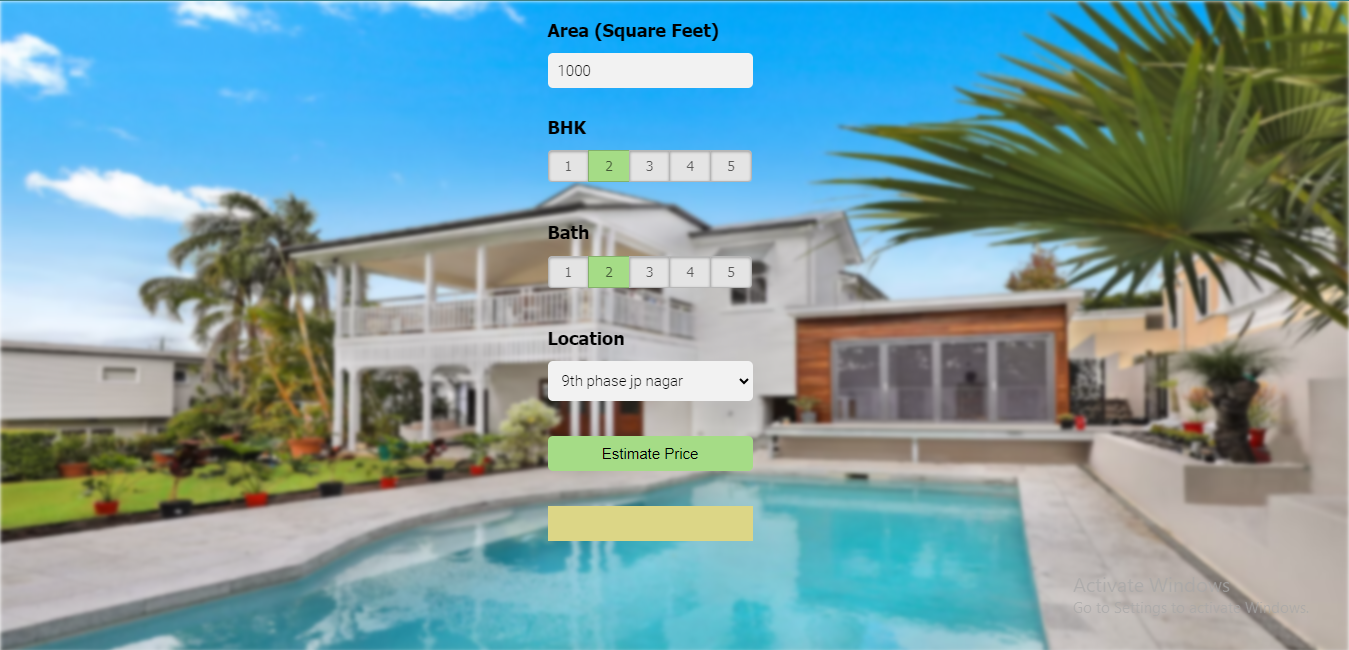
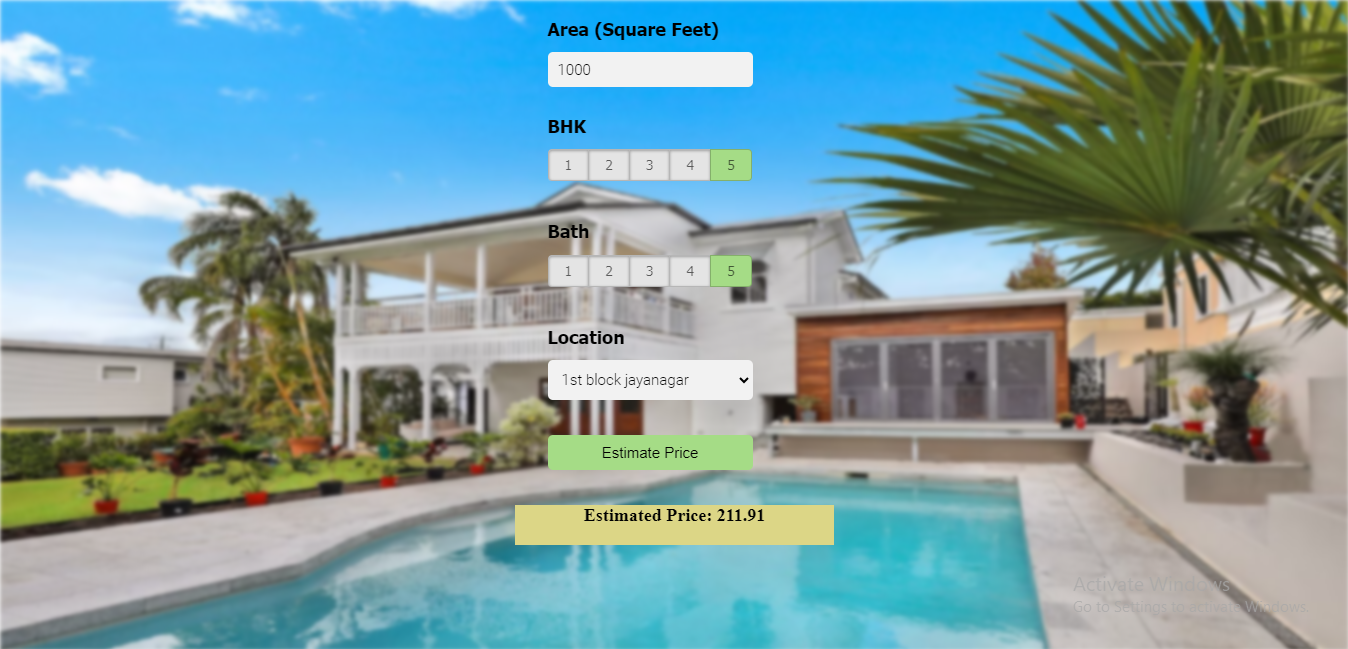
Updated 04/05/24

diff --git a/static/css/app.css b/static/css/app.css
@@ -1,4 +1,4 @@
-@import url(https://fonts.googleapis.com/css?family=Roboto:300);
+@import url('https://fonts.googleapis.com/css?family=Roboto:300');
 
 .switch-field {
 	display: flex;
@@ -32,7 +32,7 @@
 	cursor: pointer;
 }
 
-.switch-field input:checked + label {
+.switch-field input:checked+label {
 	background-color: #a5dc86;
 	box-shadow: none;
 }
@@ -59,75 +59,73 @@ h2 {
 	font-size: 18px;
 	margin-bottom: 8px;
 }
-.area{
-  font-family: "Roboto", sans-serif;
-  outline: 0;
-  background: #f2f2f2;
-  width: 76%;
-  border: 0;
-  margin: 0 0 10px;
-  padding: 10px;
-  box-sizing: border-box;
-  font-size: 15px;
-  height: 35px;
-  border-radius: 5px;
+
+.area {
+	font-family: "Roboto", sans-serif;
+	outline: 0;
+	background: #f2f2f2;
+	width: 76%;
+	border: 0;
+	margin: 0 0 10px;
+	padding: 10px;
+	box-sizing: border-box;
+	font-size: 15px;
+	height: 35px;
+	border-radius: 5px;
 }
 
-.location{
-  font-family: "Roboto", sans-serif;
-  outline: 0;
-  background: #f2f2f2;
-  width: 76%;
-  border: 0;
-  margin: 0 0 10px;
-  padding: 10px;
-  box-sizing: border-box;
-  font-size: 15px;
-  height: 40px;
-  border-radius: 5px;
+.location {
+	font-family: "Roboto", sans-serif;
+	outline: 0;
+	background: #f2f2f2;
+	width: 76%;
+	border: 0;
+	margin: 0 0 10px;
+	padding: 10px;
+	box-sizing: border-box;
+	font-size: 15px;
+	height: 40px;
+	border-radius: 5px;
 }
 
-.submit{
-  background: #a5dc86;
-  width: 76%;
-  border: 0;
-  margin: 25px 0 10px;
-  box-sizing: border-box;
-  font-size: 15px;
+.submit {
+	background: #a5dc86;
+	width: 76%;
+	border: 0;
+	margin: 25px 0 10px;
+	box-sizing: border-box;
+	font-size: 15px;
 	height: 35px;
 	text-align: center;
 	border-radius: 5px;
 }
 
-.result{
-		background: #dcd686;
-		width: 76%;
-		border: 0;
-		margin: 25px 0 10px;
-		box-sizing: border-box;
-		font-size: 15px;
-		height: 35px;
-		text-align: center;
+.result {
+	background: #dcd686;
+	width: 24%;
+	border: 0;
+	margin: 25px auto 10px;
+	box-sizing: border-box;
+	font-size: 15px;
+	height: 40px;
+	text-align: center;
 }
 
 .img {
-  background: url('https://images.unsplash.com/photo-1564013799919-ab600027ffc6?ixlib=rb-1.2.1&auto=format&fit=crop&w=1350&q=80');
+	background-image: url('../img/bg.jpg');
 	background-repeat: no-repeat;
-  background-size: auto;
-  background-size:100% 100%;
-  /* -webkit-filter: blur(1px);
-  -moz-filter: blur(1px);
-  -o-filter: blur(1px);
-  -ms-filter: blur(1px); */
-  filter: blur(2px);
-  position: fixed;
-  width: 100%;
-  height: 100%;
-  top: 0;
-  left: 0;
-  z-index: -1;
+	background-size: auto;
+	background-size: 100% 100%;
+	filter: blur(2px);
+	position: fixed;
+	width: 100%;
+	height: 100%;
+	top: 0;
+	left: 0;
+	z-index: -1;
 }
 
-body, html {
-  height: 100%;
+body,
+html {
+	height: 100%;
 }

diff --git a/static/js/app.js b/static/js/app.js
@@ -1,60 +1,34 @@
-function getBathValue() {
-  var uiBathrooms = document.getElementsByName("uiBathrooms");
-  for(var i in uiBathrooms) {
-    if(uiBathrooms[i].checked) {
-        return parseInt(i)+1;
-    }
-  }
-  return -1; // Invalid Value
-}
+function estimatePrice() {
+  var sqft = $("#uiSqft").val();
+  var bhk = $("input[name='uiBHK']:checked").val();
+  var bath = $("input[name='uiBathrooms']:checked").val();
+  var location = $("#uiLocations").val();
 
-function getBHKValue() {
-  var uiBHK = document.getElementsByName("uiBHK");
-  for(var i in uiBHK) {
-    if(uiBHK[i].checked) {
-        return parseInt(i)+1;
-    }
-  }
-  return -1; // Invalid Value
-}
-
-function onClickedEstimatePrice() {
-  console.log("Estimate price button clicked");
-  var sqft = document.getElementById("uiSqft");
-  var bhk = getBHKValue();
-  var bathrooms = getBathValue();
-  var location = document.getElementById("uiLocations");
-  var estPrice = document.getElementById("uiEstimatedPrice");
-
-  var url = "http://127.0.0.1:5000/predict_home_price";
-
-  $.post(url, {
-      total_sqft: parseFloat(sqft.value),
-      bhk: bhk,
-      bath: bathrooms,
-      location: location.value
-  },function(data, status) {
-      console.log(data.estimated_price);
-      estPrice.innerHTML = "<h2>" + data.estimated_price.toString() + " Lakh</h2>";
-      console.log(status);
+  $.ajax({
+    type: "POST",
+    url: "/predict_home_price",
+    data: {
+      Squareft: sqft,
+      uiBHK: bhk,
+      uiBathrooms: bath,
+      uiLocations: location,
+    },
+    success: function (response) {
+      $("#uiEstimatedPrice h2").text(
+        "Estimated Price: " + response.estimated_price
+      );
+    },
+    error: function (xhr, status, error) {
+      console.error("Error:", error);
+    },
   });
 }
 
-function onPageLoad() {
-  console.log( "document loaded" );
-  var url = "http://127.0.0.1:5000/get_location_names"; 
-  $.get(url,function(data, status) {
-      console.log("got response for get_location_names request");
-      if(data) {
-          var locations = data.locations;
-          var uiLocations = document.getElementById("uiLocations");
-          $('#uiLocations').empty();
-          for(var i in locations) {
-              var opt = new Option(locations[i]);
-              $('#uiLocations').append(opt);
-          }
-      }
+$(document).ready(function () {
+  // Fetch location names and populate dropdown
+  $.get("/get_location_names", function (data) {
+    data.locations.forEach(function (location) {
+      $("#uiLocations").append("<option>" + location + "</option>");
+    });
   });
-}
-
-window.onload = onPageLoad;
+});

diff --git a/templates/app.html b/templates/app.html
@@ -6,10 +6,11 @@
     <meta name="viewport" content="width=device-width, initial-scale=1.0">
 
     <script src="https://ajax.googleapis.com/ajax/libs/jquery/3.4.1/jquery.min.js"></script>
+    <!-- js file  -->
     <script type="text/javascript" src="{{ url_for('static', filename='js/app.js') }}"></script>
 
     <link rel="stylesheet" type="text/css" href="{{ url_for('static', filename='css/app.css') }}">
-    
+
     <title>House Price Prediction</title>
 </head>
 
@@ -17,7 +18,7 @@
     <div class="img"></div>
     <form class="form">
         <h2>Area (Square Feet)</h2>
-        <input class="area" type="text" id="uiSqft" class="floatLabel" name="Squareft" value="1000">
+        <input class="area" type="text" id="uiSqft" name="Squareft" value="1000">
         <h2>BHK</h2>
         <div class="switch-field">
             <input type="radio" id="radio-bhk-1" name="uiBHK" value="1" />
@@ -31,8 +32,6 @@
             <input type="radio" id="radio-bhk-5" name="uiBHK" value="5" />
             <label for="radio-bhk-5">5</label>
         </div>
-    </form>
-    <form class="form">
         <h2>Bath</h2>
         <div class="switch-field">
             <input type="radio" id="radio-bath-1" name="uiBathrooms" value="1" />
@@ -48,16 +47,15 @@
         </div>
         <h2>Location</h2>
         <div>
-            <select class="location" name="" id="uiLocations">
+            <select class="location" name="uiLocations" id="uiLocations">
                 <option value="" disabled="disabled" selected="selected">Choose a Location</option>
-                <option>Electronic City</option>
-                <option>Rajaji Nagar</option>
             </select>
         </div>
-        <button class="submit" onclick="onClickedEstimatePrice()" type="button">Estimate Price</button>
-        <div id="uiEstimatedPrice" class="result">
-            <h2></h2>
-        </div>
+        <button class="submit" type="button" onclick="estimatePrice()">Estimate Price</button>
+    </form>
+    <div id="uiEstimatedPrice" class="result">
+        <h2></h2>
+    </div>
 </body>
 
 </html>

diff --git a/app.py b/app.py
@@ -3,23 +3,10 @@ from pipelines import util
 
 app = Flask(__name__)
 
-
 # Route for serving the app.html file
 @app.route('/')
 def app_html():
     return render_template('app.html')
-
-# Route for the root URL
-# @app.route('/')
-# def index():
-#     # URLs to be displayed
-#     urls_message = "API Endpoints:<br>"\
-#                    "1. Get Location Names: <a href='/get_location_names'>/get_location_names</a><br>"\
-#                    "2. Predict Home Price: <a href='/predict_home_price'>/predict_home_price</a><br>"\
-#                    "3. Web Applications: <a href='/app.html'>/app.html</a><br>"
-
-#     # Return welcome message with URLs
-#     return "Welcome to Home Price Prediction Server<br>" + urls_message
 
 @app.route('/get_location_names', methods=['GET'])
 def get_location_names():
@@ -27,16 +14,15 @@ def get_location_names():
         'locations': util.get_location_names()
     })
     response.headers.add('Access-Control-Allow-Origin', '*')
-
     return response
 
 @app.route('/predict_home_price', methods=['POST'])
 def predict_home_price():
     try:
-        total_sqft = float(request.form['total_sqft'])
-        location = request.form['location']
-        bhk = int(request.form['bhk'])
-        bath = int(request.form['bath'])
+        total_sqft = float(request.form['Squareft'])
+        location = request.form['uiLocations']
+        bhk = int(request.form['uiBHK'])
+        bath = int(request.form['uiBathrooms'])
 
         estimated_price = util.get_estimated_price(location, total_sqft, bhk, bath)
         response = jsonify({
@@ -48,10 +34,7 @@ def predict_home_price():
         error_message = str(e)
         return jsonify({'error': error_message}), 400
 
-
 if __name__ == "__main__":
     print("Starting Python Flask Server For Home Price Prediction...")
     util.load_saved_artifacts()
-    app.run()
-
-
+    app.run(debug=True)

diff --git a/pipelines/util.py b/pipelines/util.py
@@ -2,6 +2,7 @@ import json
 import pickle
 import os
 import numpy as np
+import warnings
 
 __locations = None
 __data_columns = None
@@ -39,6 +40,8 @@ def load_saved_artifacts():
             __data_columns = json.load(f)['data_columns']
             __locations = __data_columns[3:]  # first 3 columns are sqft, bath, bhk
 
+        # Suppress the warning
+        warnings.filterwarnings("ignore", category=UserWarning)
         # Path to model.pickle
         model_pickle_path = os.path.join(current_dir,'..', 'artifacts', 'model.pickle')
         global __model
